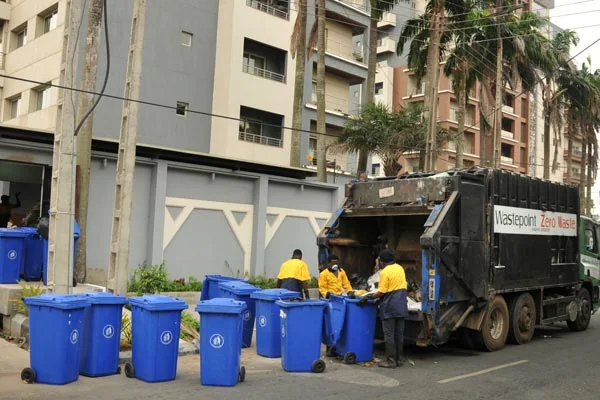
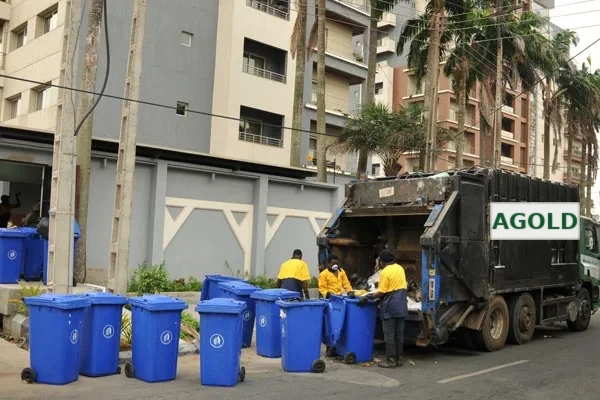
fixed images and codes

Changed region(s): [[0.81, 0.48, 0.99, 0.6]]

diff --git a/core/static/core/css/extra.css b/core/static/core/css/extra.css
@@ -1,0 +1,30 @@
+/* logos */
+.brand img{height:58px;width:auto}
+.agold{background:none;padding:0}.agold img{height:84px;width:auto}
+.ns{padding:5px 8px}.ns img{height:40px;width:auto}
+/* hover zoom for every image */
+.zm{display:block;overflow:hidden;border-radius:var(--r)}
+.zm img{display:block;width:100%;transition:transform .9s cubic-bezier(.2,.7,.2,1)}
+.zm:hover img{transform:scale(1.09)}
+.zm .photo{border-radius:0;max-height:420px}
+.stack .zm{height:240px}.stack .zm .photo{height:100%}
+.card.w .zm{height:190px;border-radius:0}.card.w .zm img{height:100%;object-fit:cover}
+.card.w2 .zm{height:200px;border-radius:0}.card.w2 .zm img{height:100%;object-fit:cover}
+.cta .zm{height:300px}.cta .zm img{height:100%;object-fit:cover;border-radius:0}
+.blog .zm{height:200px;margin-bottom:.8rem}.blog .zm img{height:100%;object-fit:cover;border-radius:0;margin:0}
+/* page banner: green, text one side, image the other */
+.phead{background:radial-gradient(circle at 85% 20%,#1c7a3f 0,var(--forest) 55%);padding:4.5rem 0}
+.pheadin{display:grid;grid-template-columns:1.05fr .95fr;gap:3rem;align-items:center}
+.pheadin.rev .zm{order:-1}
+.phead .zm{height:380px;box-shadow:0 24px 60px #0006}.phead .zm img{height:100%;object-fit:cover}
+.phead h1{font-size:clamp(2.4rem,5vw,4rem);margin:0 0 .3em}
+.crumb{margin:0 0 1rem;color:#9fd18a;font-size:.95rem}.crumb a:hover{text-decoration:underline}
+.phead .lead{font-size:1.2rem;color:#d7e8d2;margin:0 0 1.5rem;max-width:520px}
+/* who we serve */
+.bizgrid{display:grid;grid-template-columns:repeat(5,1fr);gap:1rem;margin-top:2rem}
+.biz{position:relative;overflow:hidden;border-radius:var(--r);aspect-ratio:4/5;color:#fff;display:flex;align-items:flex-end;background:linear-gradient(160deg,var(--c),#0a1f12)}
+.biz::before{content:"";position:absolute;inset:0;background:var(--img) center/cover;transition:transform .9s cubic-bezier(.2,.7,.2,1)}
+.biz::after{content:"";position:absolute;inset:0;background:linear-gradient(to top,#000b 0,#0000 62%)}
+.biz:hover::before{transform:scale(1.12)}
+.biz div{position:relative;z-index:2;padding:1rem}.biz h3{margin:0 0 .2rem;font-size:1.15rem}.biz p{margin:0;font-size:.85rem;color:#e8f2e5}
+@media(max-width:900px){.pheadin{grid-template-columns:1fr}.pheadin.rev .zm{order:0}.phead .zm{height:260px}.bizgrid{grid-template-columns:repeat(2,1fr)}}

diff --git a/core/templates/core/sections/hero.html b/core/templates/core/sections/hero.html
@@ -1,6 +1,6 @@
 {% load static %}<section class="hero" style="--bg:url('{% static 'core/img/hero-collection.webp' %}')"><div class="wrap hero-in">
   <div>
-    <span class="pill" data-a="left">Pollute and Pay · Nasarawa State</span>
+
     <h1 data-a="left" style="--d:.1s">Smart waste management for homes, industry and a cleaner state.</h1>
     <p data-a="left" style="--d:.2s">Declare your waste, see the levy per tonne, pay securely and track every filing from one dashboard.</p>
     <div class="btns" data-a="up" style="--d:.3s"><a class="btn" href="{% url 'dashboard' %}">File a declaration</a><a class="btn ghost" href="{% url 'rates' %}">View levy rates</a></div>
@@ -8,4 +8,4 @@
   <aside class="float" data-a="right" style="--d:.3s"><img src="{% static 'core/img/pap-logo.png' %}" alt="Pollute and Pay"><p>Pollute and Pay is powered by AGold International Venture.</p></aside>
 </div></section>
 <section class="wrap trust"><div data-a="left"><span class="pill dk">About Pollute and Pay</span></div>
-  <p data-a="right">Pollute and Pay is powered by AGold International Venture. We collect, treat and recycle waste for households, estates, businesses and industry, and assess a clear levy per tonne for every waste stream.</p></section>
+  <p data-a="right">Pollute and Pay is powered by AGold International Venture, in conjunction with Nasarawa State. We collect.</p></section>

diff --git a/core/templates/core/contact.html b/core/templates/core/contact.html
@@ -1,9 +1,9 @@
 {% extends "core/base.html" %}{% block title %}Contact | Pollute and Pay{% endblock %}
 {% block content %}
-<section class="phead"><div class="wrap"><h1 data-a="left">Contact</h1><p data-a="left" style="--d:.1s">Tell us what you need and where you are.</p></div></section>
+{% include "core/sections/phead.html" with title="Contact" sub="Tell us what you need and where you are." img="core/img/collection-workers.webp" side="rev" %}
 <section class="sec"><div class="wrap split">
   <div data-a="left"><h2>Ready to schedule service?</h2><p>Send a message and we will reply by email. Pollute and Pay is powered by AGold International Venture.</p><p>Nasarawa State, Nigeria</p></div>
   <form method="post" class="cform" data-a="right">{% csrf_token %}<input name="name" placeholder="Your name" required><input name="email" type="email" placeholder="Email" required>
     <textarea name="message" rows="5" placeholder="How can we help?" required></textarea><button class="btn">Send message</button></form></div></section>
-{% include "core/sections/areas.html" %}
+{% include "co'[['re/sections/areas.html" %}
 {% endblock %}

diff --git a/core/templates/core/base.html b/core/templates/core/base.html
@@ -4,9 +4,10 @@
 <link rel="preconnect" href="https://fonts.googleapis.com"><link rel="preconnect" href="https://fonts.gstatic.com" crossorigin>
 <link href="https://fonts.googleapis.com/css2?family=Inter+Tight:wght@400;500;600;700;800&display=swap" rel="stylesheet">
 <link rel="stylesheet" href="{% static 'core/css/site.css' %}"></head>
+<link rel="stylesheet" href="{% static 'core/css/site.css' %}"><link rel="stylesheet" href="{% static 'core/css/extra.css' %}">
 <body>
 <header class="top"><div class="wrap bar">
-  <a class="brand" href="{% url 'home' %}"><img src="{% static 'core/img/pap-logo.png' %}" alt="Pollute and Pay"></a>
+<img src="{% static 'core/img/agold-logo.png' %}" alt="AGold International">
   <button class="burger" aria-label="Menu" onclick="document.body.classList.toggle('open')">Menu</button>
   <nav>
     <a href="{% url 'about' %}">About</a><a href="{% url 'services' %}">Services</a><a href="{% url 'sectors' %}">Sectors</a><a href="{% url 'how' %}">How it works</a><a href="{% url 'rates' %}">Rates</a><a href="{% url 'contact' %}">Contact</a><a href="{% url 'dashboard' %}">Dashboard</a>

diff --git a/core/templates/core/sections/reviews.html b/core/templates/core/sections/reviews.html
@@ -2,7 +2,7 @@
   <div data-a="left"><span class="pill dk">What customers say</span><h2>Real reviews from local homes and businesses</h2>
     <div class="rv">{% for who,q in REVIEWS %}<blockquote class="{% if forloop.first %}on{% endif %}"><p>“{{ q }}”</p><cite>{{ who }}</cite></blockquote>{% endfor %}</div>
     <div class="arrows"><button class="btn" data-rv="-1" aria-label="Previous">←</button><button class="btn" data-rv="1" aria-label="Next">→</button></div></div>
-  <img class="photo" data-a="right" src="{% static 'core/img/hero-collection.webp' %}" alt="Collection crew"></div></section>
+  <div class="zm" data-a="right"><img class="photo" src="{% static 'core/img/hero-collection.webp' %}" alt="Collection crew"></div></div></section>
 <section class="sec tint"><div class="wrap split">
   <div data-a="left"><span class="pill dk">FAQ</span><h2>Answers to common questions</h2><p>Quick answers about filing, levy rates and payment.</p></div>
   <div class="faq" data-a="right">{% for q,a in FAQS %}<details><summary>{{ q }}</summary><p>{{ a }}</p></details>{% endfor %}</div></div></section>

diff --git a/core/templates/core/sections/sectors.html b/core/templates/core/sections/sectors.html
@@ -1,4 +1,4 @@
 {% load static %}<section class="sec dark"><div class="wrap">
   <span class="pill" data-a="down">One crew, every property</span>
   <h2 class="c" data-a="down">Whether it is your home, business or plant, we will haul it.</h2>
-  <div class="grid3">{% for tag,t,img,pts in SECTORS %}<article class="card w" data-a="{% cycle 'left' 'up' 'right' %}"><img src="{% static img %}" alt=""><small class="tg">{{ tag }}</small><h3>{{ t }}</h3><ul>{% for p in pts %}<li>{{ p }}</li>{% endfor %}</ul><a class="al" href="{% url 'services' %}">Services</a></article>{% endfor %}</div></div></section>
+  <div class="grid3">{% for tag,t,img,pts in SECTORS %}<article class="card w" data-a="{% cycle 'left' 'up' 'right' %}"><div class="zm"><img src="{% static img %}" alt=""></div><small class="tg">{{ tag }}</small><h3>{{ t }}</h3><ul>{% for p in pts %}<li>{{ p }}</li>{% endfor %}</ul><a class="al" href="{% url 'services' %}">Services</a></article>{% endfor %}</div></div></section>

diff --git a/core/templates/core/sections/blog.html b/core/templates/core/sections/blog.html
@@ -1,3 +1,2 @@
-{% load static %}<section class="sec"><div class="wrap">
-  <span class="pill dk" data-a="down">Our blog</span><h2 data-a="down">Helpful tips for waste and recycling</h2>
-  <div class="grid3">{% for t,d,img in BLOG %}<article class="blog" data-a="{% cycle 'left' 'up' 'right' %}"><img src="{% static img %}" alt=""><h3>{{ t }}</h3><p>{{ d }}</p><a class="al" href="{% url 'how' %}">Read more</a></article>{% endfor %}</div></div></section>
+{% load static %}<section class="sec"><div class="wrap cta"><div data-a="left"><h2>Ready to schedule service?</h2><p>Tell us what you need and where you are located. Our team will get you started. Pollute and Pay is powered by AGold International Venture.</p><a class="btn" href="{% url 'contact' %}">Get in touch</a></div>
+  <div class="zm" data-a="right"><img src="{% static 'core/img/recycling-conveyor.webp' %}" alt=""></div></div></section>

diff --git a/core/templates/core/sections/works.html b/core/templates/core/sections/works.html
@@ -1,3 +1,3 @@
 {% load static %}<section class="sec"><div class="wrap">
   <span class="pill dk" data-a="down">Works done</span><h2 data-a="down">Ongoing projects</h2>
-  <div class="grid3">{% for t,img in WORKS %}<article class="card w2" data-a="{% cycle 'left' 'up' 'right' %}"><img src="{% static img %}" alt=""><span class="ns"><img src="{% static 'core/img/nasarawa-logo.png' %}" alt="Nasarawa State Government"></span><h3>{{ t }}</h3><p>Ongoing</p></article>{% endfor %}</div></div></section>
+  <div class="grid3">{% for t,img in WORKS %}<article class="card w2" data-a="{% cycle 'left' 'up' 'right' %}"><div class="zm"><img src="{% static img %}" alt=""></div><span class="ns"><img src="{% static 'core/img/agold-logo.png' %}" alt="AGold International"></span><h3>{{ t }}</h3><p>Ongoing</p></article>{% endfor %}</div></div></section>

diff --git a/core/templates/core/sections/why.html b/core/templates/core/sections/why.html
@@ -1,4 +1,4 @@
 {% load static %}<section class="sec tint"><div class="wrap split">
   <div data-a="left"><span class="pill dk">Why choose us</span><h2>Why customers choose Pollute and Pay</h2>
     {% for t,d in WHY %}<div class="why"><h3>{{ t }}</h3><p>{{ d }}</p></div>{% endfor %}</div>
-  <div class="stack" data-a="right"><img class="photo" src="{% static 'core/img/collection-city.webp' %}" alt=""><img class="photo" src="{% static 'core/img/collection-workers.webp' %}" alt=""></div></div></section>
+  <div class="stack" data-a="right"><div class="zm"><img class="photo" src="{% static 'core/img/collection-city.webp' %}" alt=""></div><div class="zm"><img class="photo" src="{% static 'core/img/collection-workers.webp' %}" alt=""></div></div></div></section>

diff --git a/core/templates/core/sectors.html b/core/templates/core/sectors.html
@@ -1,7 +1,8 @@
-{% extends "core/base.html" %}{% load static %}{% block title %}Sectors | Pollute and Pay{% endblock %}
+{% extends "core/base.html" %}{% block title %}Sectors | Pollute and Pay{% endblock %}
 {% block content %}
-<section class="phead"><div class="wrap"><h1 data-a="left">Sectors</h1><p data-a="left" style="--d:.1s">One crew for homes, business and industry.</p></div></section>
+{% include "core/sections/phead.html" with title="Sectors" sub="One crew for homes, business and industry." img="core/img/collection-city.webp" side="rev" %}
 {% include "core/sections/sectors.html" %}
+{% include "core/sections/clients.html" %}
 {% include "core/sections/areas.html" %}
 {% include "core/sections/cta.html" %}
 {% endblock %}

diff --git a/core/templates/core/services.html b/core/templates/core/services.html
@@ -1,6 +1,7 @@
-{% extends "core/base.html" %}{% load static %}{% block title %}Services | Pollute and Pay{% endblock %}
+{% extends "core/base.html" %}{% block title %}Services | Pollute and Pay{% endblock %}
 {% block content %}
-<section class="phead"><div class="wrap"><h1 data-a="left">Services</h1><p data-a="left" style="--d:.1s">Waste services for every property type.</p></div></section>
+{% include "core/sections/phead.html" with title="Services" sub="Waste services for every property type." img="core/img/fleet.webp" side="" %}
 {% include "core/sections/services.html" with services_n=":15" %}
+{% include "core/sections/clients.html" %}
 {% include "core/sections/cta.html" %}
 {% endblock %}

diff --git a/core/templates/core/how.html b/core/templates/core/how.html
@@ -1,6 +1,6 @@
-{% extends "core/base.html" %}{% load static %}{% block title %}How it works | Pollute and Pay{% endblock %}
+{% extends "core/base.html" %}{% block title %}How it works | Pollute and Pay{% endblock %}
 {% block content %}
-<section class="phead"><div class="wrap"><h1 data-a="left">How it works</h1><p data-a="left" style="--d:.1s">File, pay and track in four steps.</p></div></section>
+{% include "core/sections/phead.html" with title="How it works" sub="File, pay and track in four steps." img="core/img/collection-workers.webp" side="" %}
 {% include "core/sections/steps.html" %}
 {% include "core/sections/reviews.html" %}
 {% endblock %}
